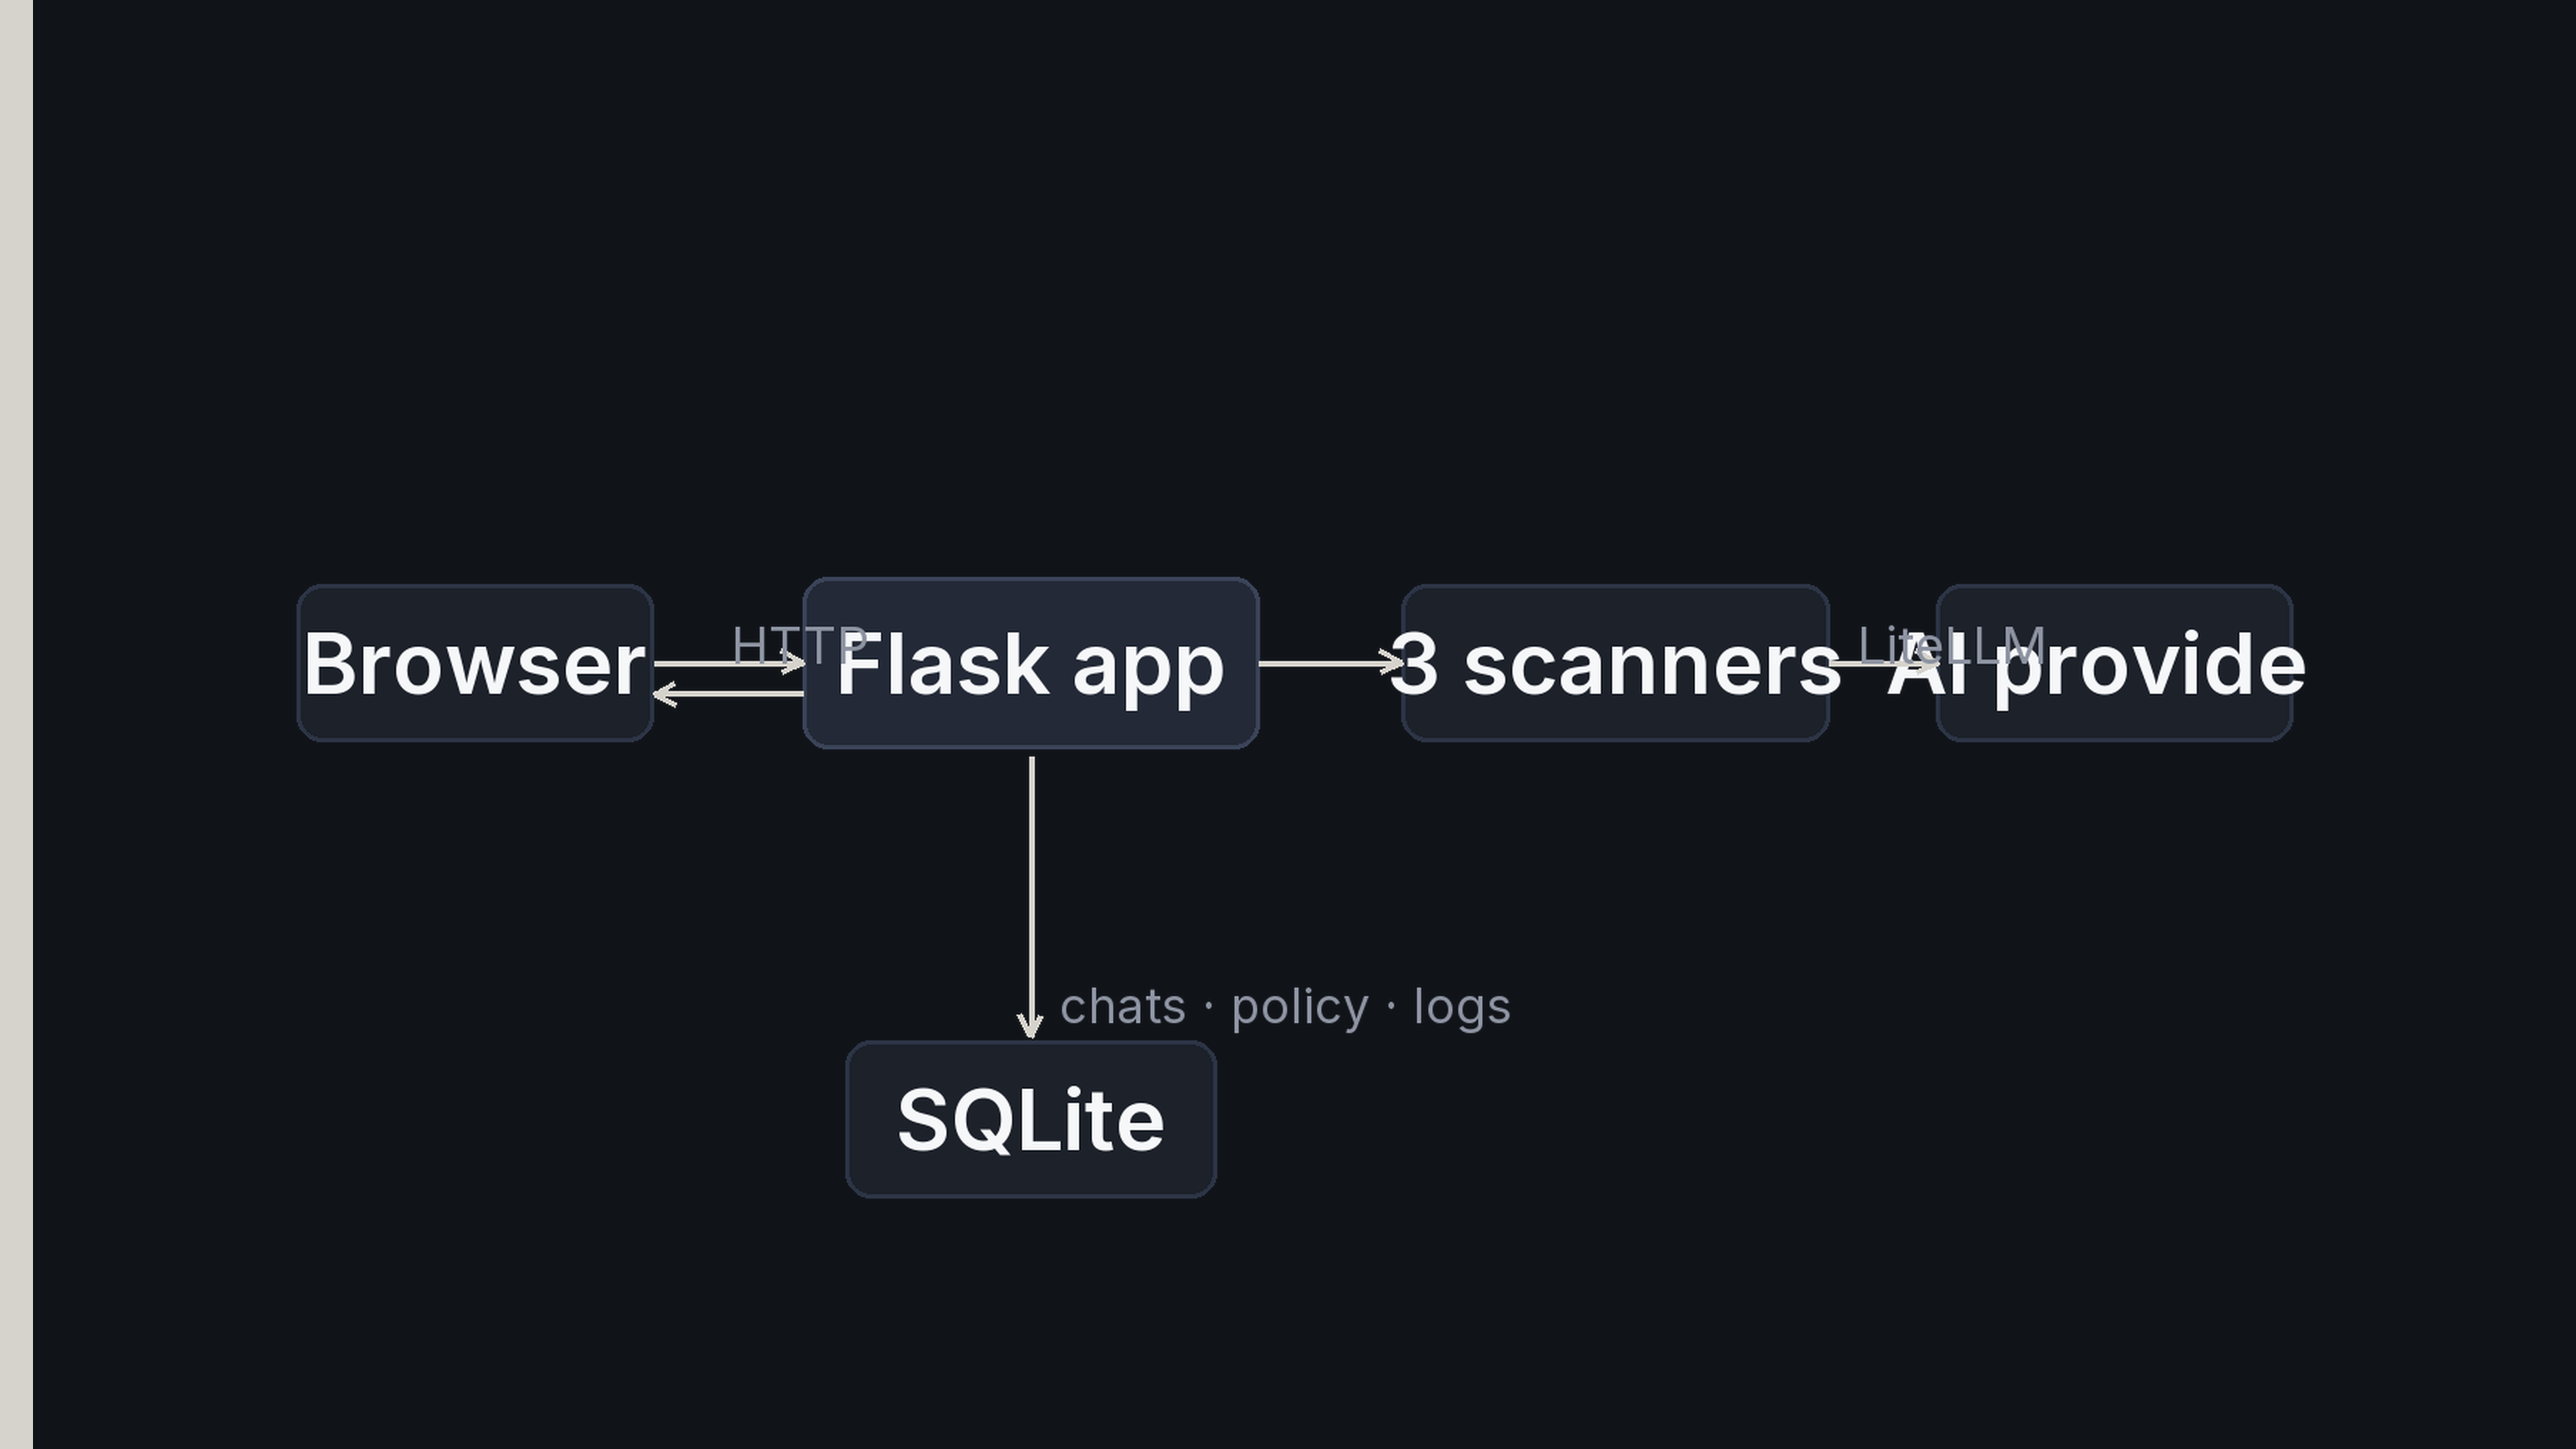
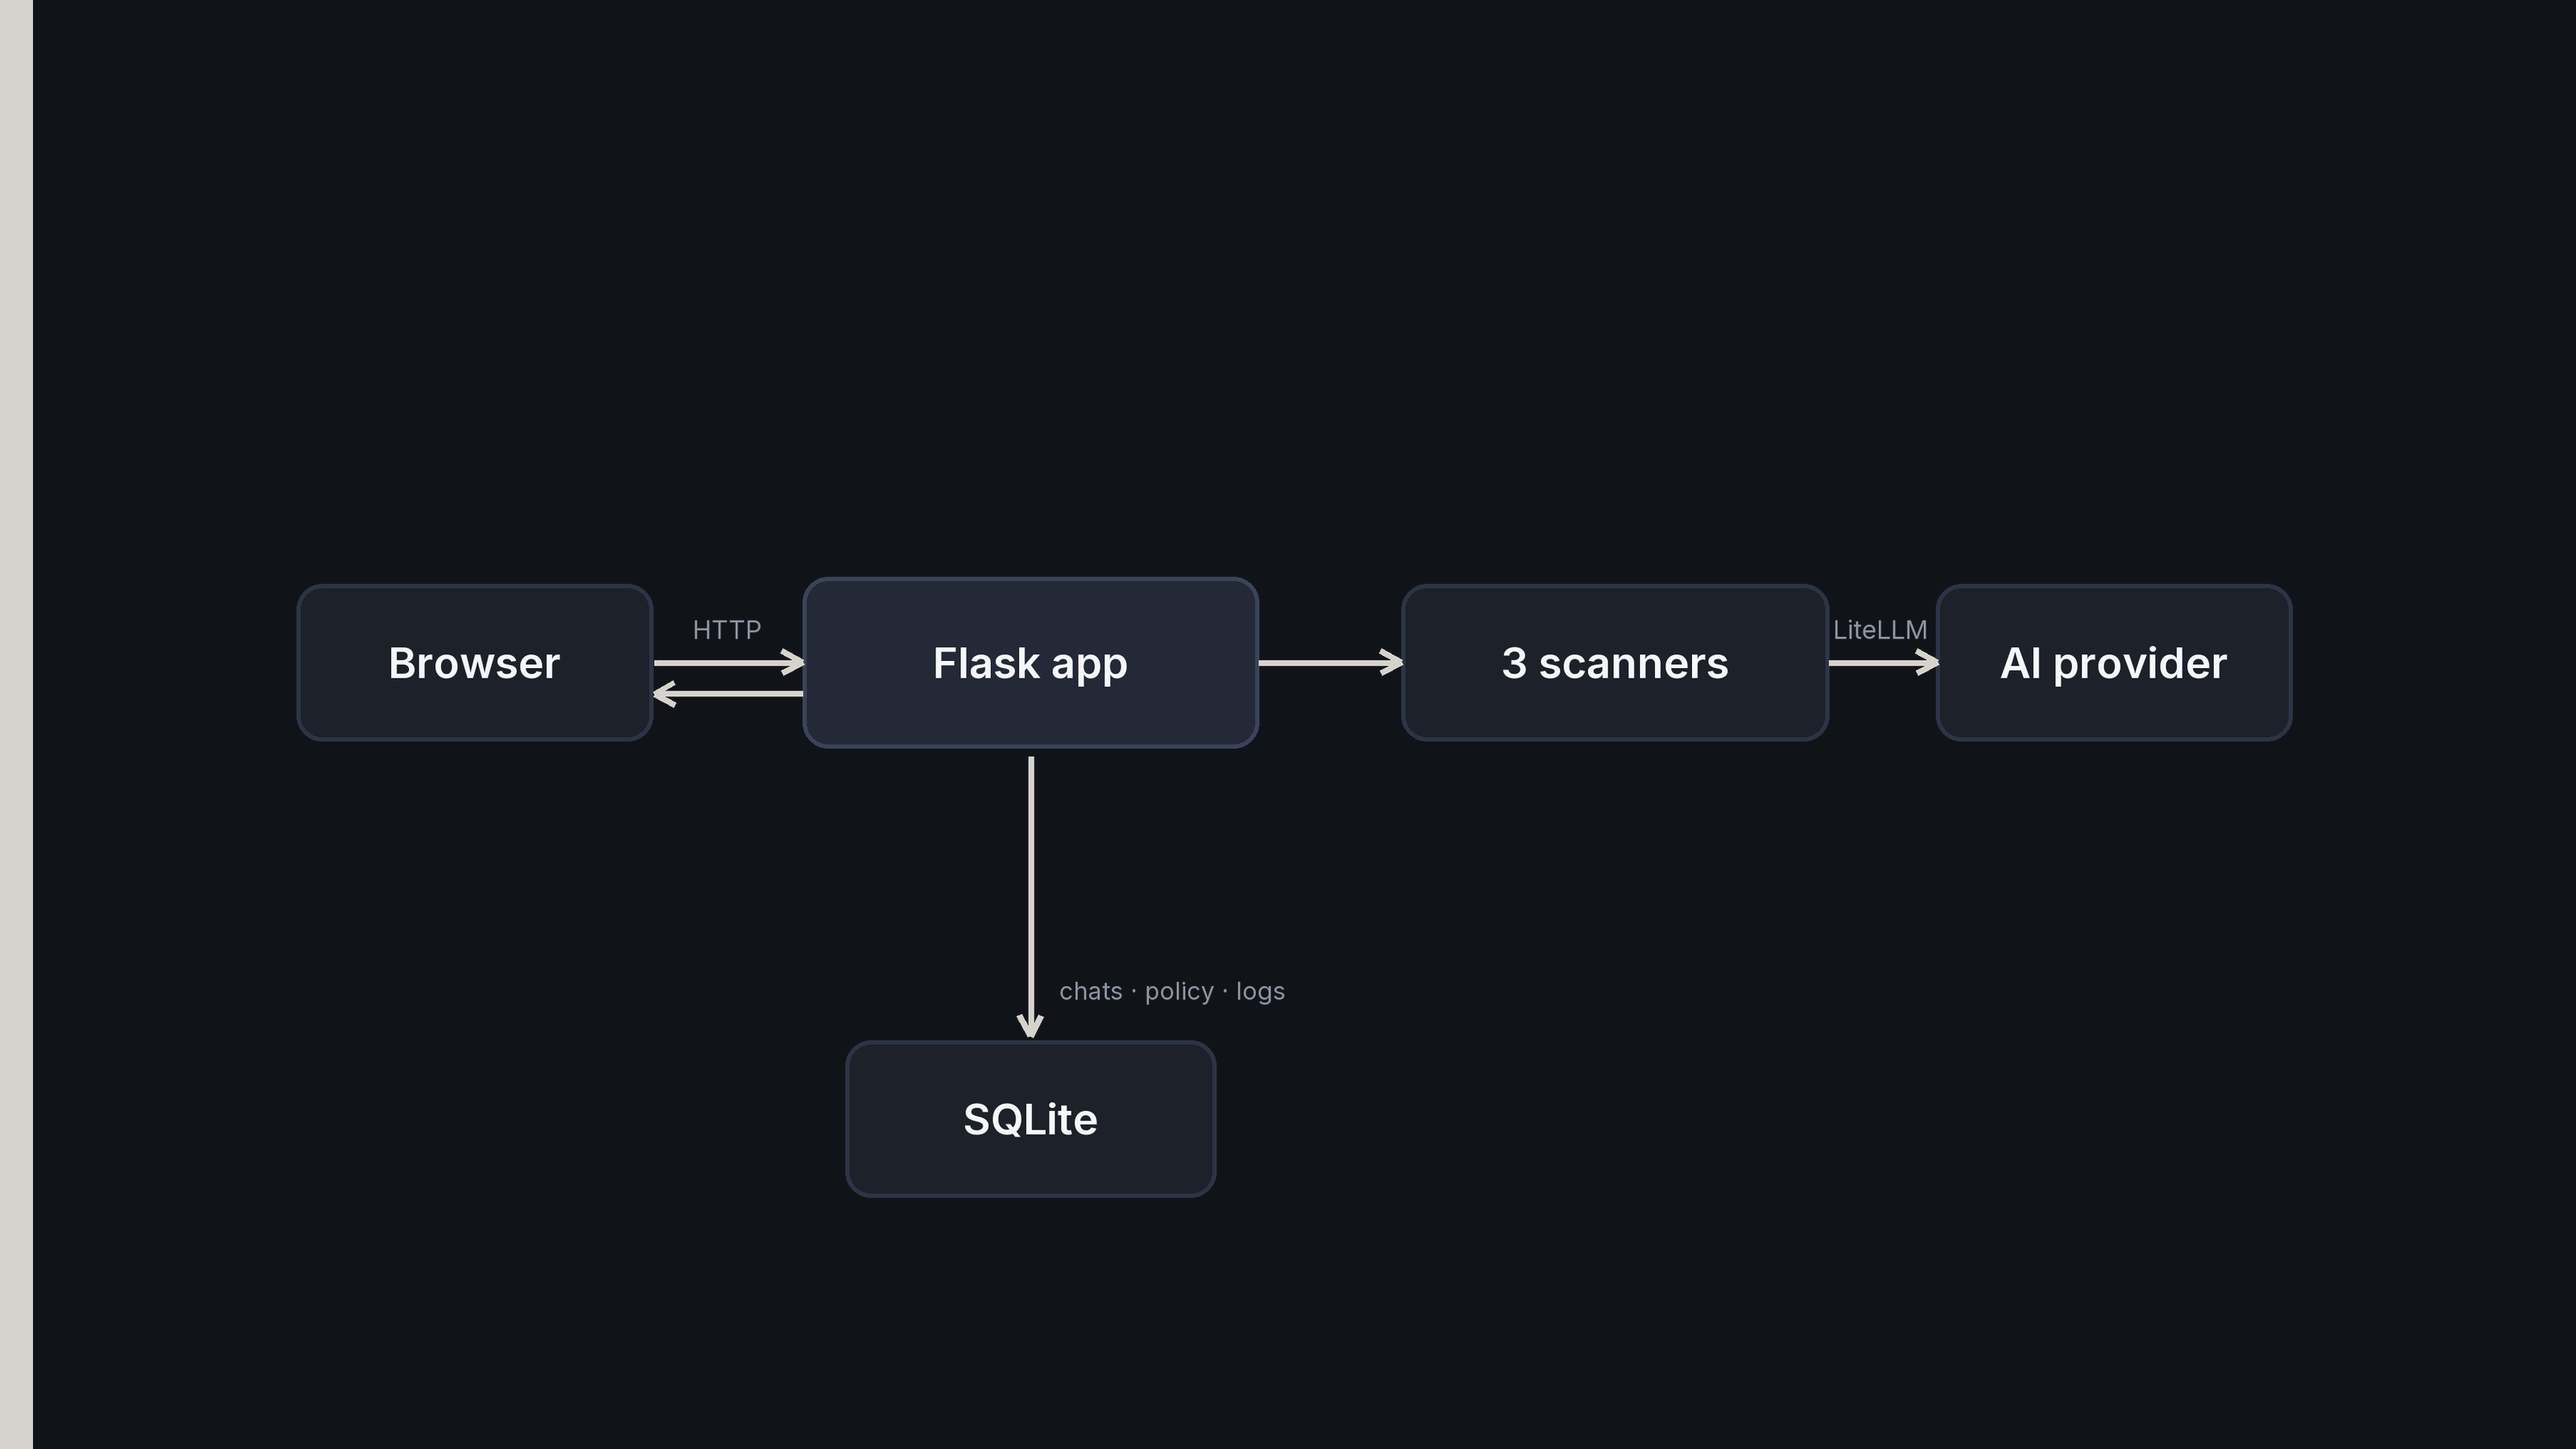
deck: fix overlaps on slides 1, 22, 23
- 01_title: badge moved up so its tip no longer touches the kicker text
- 22_arch: arch() now draws on a 2x canvas via ScaledDraw (labels were
  rendering double-size and overflowing their boxes); HTTP/LiteLLM labels
  centred in the arrow gaps
- 23_backend_cards: 'Gunicorn 1 worker x 8 threads' -> 'Gunicorn 1x8 threads'
  so the bullet fits inside its card

diff --git a/deck-assets/build_slides.py b/deck-assets/build_slides.py
@@ -491,14 +491,18 @@ def s_table(title, headers, rows, y=240, col_w=None, size=23, head_size=21):
 # Diagrams
 # --------------------------------------------------------------------------
 def arch() -> Image.Image:
-    """Browser <-> Flask <-> 3 scanners <-> provider, plus SQLite."""
+    """Browser <-> Flask <-> 3 scanners <-> provider, plus SQLite.
+
+    Drawn on a 2x canvas through ScaledDraw, so the shared f() fonts land at
+    their intended size (previously the 1x canvas made every label double).
+    """
     w, h = 1440, 700
-    img = Image.new("RGBA", (w, h), (0, 0, 0, 0))
-    d = ImageDraw.Draw(img)
+    img = Image.new("RGBA", (w * SS, h * SS), (0, 0, 0, 0))
+    d = ScaledDraw(ImageDraw.Draw(img), SS)
 
     def node(cx, cy, rw, rh, fill, outline, label, sub=None, color=TEXT_STRONG):
         d.rounded_rectangle([cx - rw / 2, cy - rh / 2, cx + rw / 2, cy + rh / 2],
-                            radius=18, fill=fill, outline=outline, width=3)
+                            radius=18, fill=fill, outline=outline, width=6)
         d.text((cx, cy - (10 if sub else 0)), label, font=f(30, 600), fill=color, anchor="mm")
         if sub:
             d.text((cx, cy + 30), sub, font=f(19), fill=TEXT_MUTED, anchor="mm")
@@ -522,8 +526,8 @@ def arch() -> Image.Image:
     arrow(700, y, 800, y)
     arrow(1100, y, 1176, y)
     arrow(540, y + 66, 540, 512)
-    d.text((330, y - 34), "HTTP", font=f(18), fill=TEXT_MUTED)
-    d.text((1120, y - 34), "LiteLLM", font=f(18), fill=TEXT_MUTED)
+    d.text((303, y - 34), "HTTP", font=f(18), fill=TEXT_MUTED)
+    d.text((1103, y - 34), "LiteLLM", font=f(18), fill=TEXT_MUTED)
     d.text((560, 470), "chats · policy · logs", font=f(17), fill=TEXT_MUTED)
     return img
 
@@ -643,7 +647,7 @@ def build():
     add("22_arch", s_image, arch(), None, y=190, h=620)
     add("23_backend_cards", s_card_row, [
         dict(title="Web app", color=ACCENT_DEEP, lines=[("dot", "Flask, UI and JSON API"), ("dim", "one process")]),
-        dict(title="Server", color=ACCENT_DEEP, lines=[("dot", "Gunicorn 1 worker × 8 threads"), ("dim", "models stay warm")]),
+        dict(title="Server", color=ACCENT_DEEP, lines=[("dot", "Gunicorn 1×8 threads"), ("dim", "models stay warm")]),
         dict(title="Storage", color=ACCENT_DEEP, lines=[("dot", "SQLite, no external DB"), ("dim", "chats · policy · logs")]),
         dict(title="Secrets", color=ACCENT_DEEP, lines=[("dot", "Fernet, separate key file"), ("dim", "keys never shown again")]),
     ], y=250, h=400)
